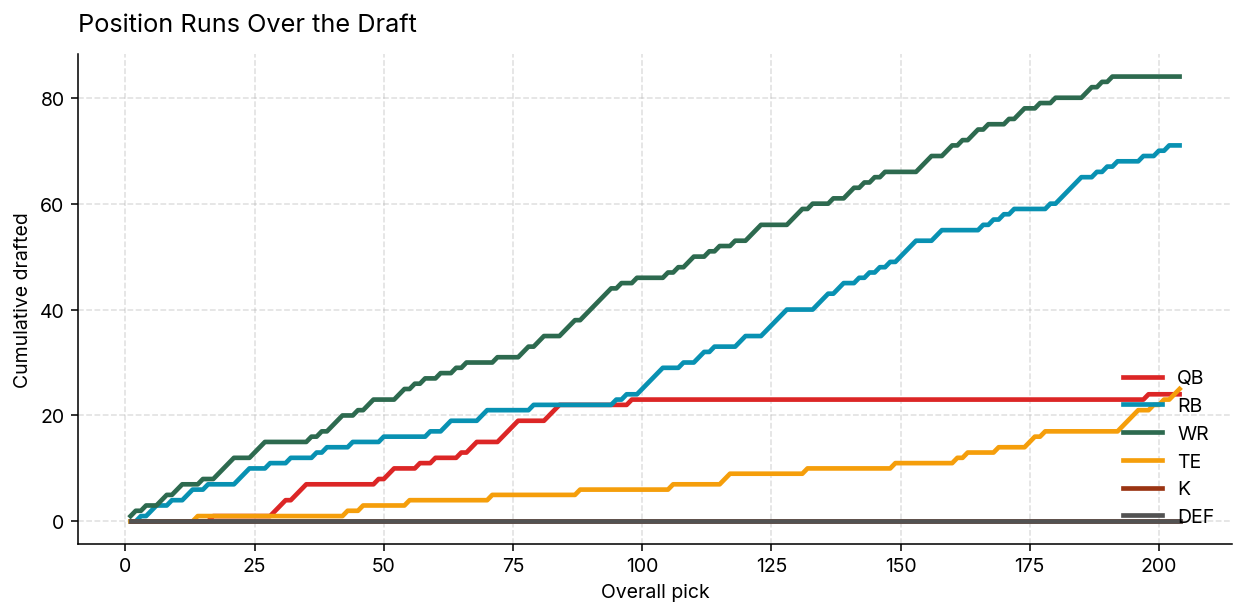
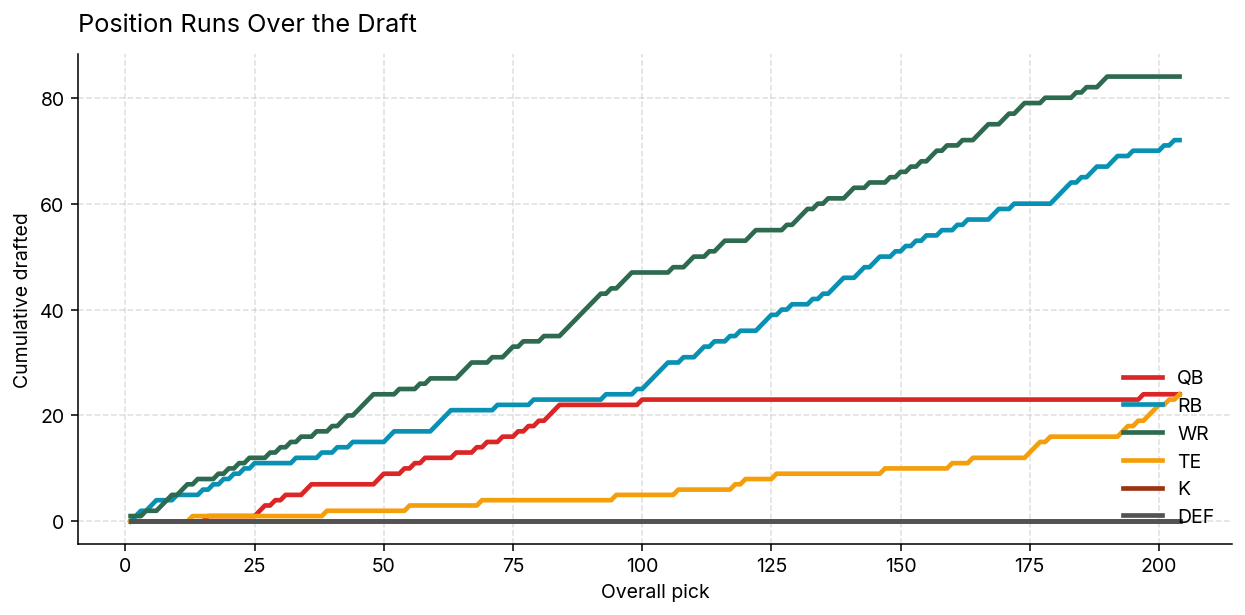
Use predicted 2026 draft order (reverse 2025 final standings + playoff)
Sleeper's current slot_to_roster_id is a placeholder. Real draft order
flows from 2025 results:
  1. Troy (3-11 worst)
  2. Brian (4-10, fewest fpts)
  3. Kyle  4. Donnie  5. Lem  6. Coop
  7. Eric (playoff 6th)  8. Tim (5th)  9. Brower (4th)
  10. Ankur (3rd)  11. Josh (runner-up)  12. Trevor (CHAMP, picks last)

Mock re-run with this order. Brian (now picking R1.2) lands:
- Bijan Robinson R1 + Jeremiyah Love R2 (elite RB duo)
- Jayden Daniels R3 + Mahomes R5 (elite QB stack)
- Total projection: 2686 pts.

diff --git a/scripts/build_mock_draft_report.py b/scripts/build_mock_draft_report.py
@@ -25,9 +25,32 @@ CHART_DIR = ROOT / "data" / "charts" / "mock"
 CHART_DIR.mkdir(parents=True, exist_ok=True)
 CHROMIUM_EXEC = bpr.CHROMIUM_EXEC
 
-# Team_idx -> manager_id (1-indexed slot in Sleeper draft; team_idx is 0-indexed)
-SLOT_TO_RID = {1: 6, 2: 2, 3: 7, 4: 11, 5: 5, 6: 1, 7: 10, 8: 8,
-               9: 9, 10: 3, 11: 4, 12: 12}
+# Predicted 2026 draft order: reverse final 2025 standings.
+# Playoff teams ranked by playoff finish (champ picks last); rest by reg-season.
+# 2025: Trevor=champ, Josh=runnerup, Ankur=3rd, Brower=4th, Tim=5th, Eric=6th
+# Non-playoff (by reg season wins+fpts): Coop, Lem, Donnie, Kyle, Brian, Troy(worst)
+# Slot = pick number in R1 (1 = first overall = worst team).
+PREDICTED_SLOT_TO_RID = {
+    1: 4,    # Troy (3-11, worst)
+    2: 9,    # Brian (4-10, #11 fpts)
+    3: 5,    # Kyle (4-10)
+    4: 2,    # Donnie (4-10)
+    5: 6,    # Lem (5-9)
+    6: 12,   # Coop (6-8)
+    7: 7,    # Eric (playoff 6th)
+    8: 1,    # Tim (playoff 5th)
+    9: 8,    # Brower (playoff 4th)
+    10: 3,   # Ankur (playoff 3rd)
+    11: 10,  # Josh (runner-up)
+    12: 11,  # Trevor (champion - picks last)
+}
+
+# Default Sleeper placeholder
+SLEEPER_PLACEHOLDER_SLOT_TO_RID = {1: 6, 2: 2, 3: 7, 4: 11, 5: 5, 6: 1,
+                                    7: 10, 8: 8, 9: 9, 10: 3, 11: 4, 12: 12}
+
+# Use predicted order
+SLOT_TO_RID = PREDICTED_SLOT_TO_RID
 ROSTER_HANDOFFS = {(2025, 10): "josh_wildboy"}
 
 POS_COLORS = {